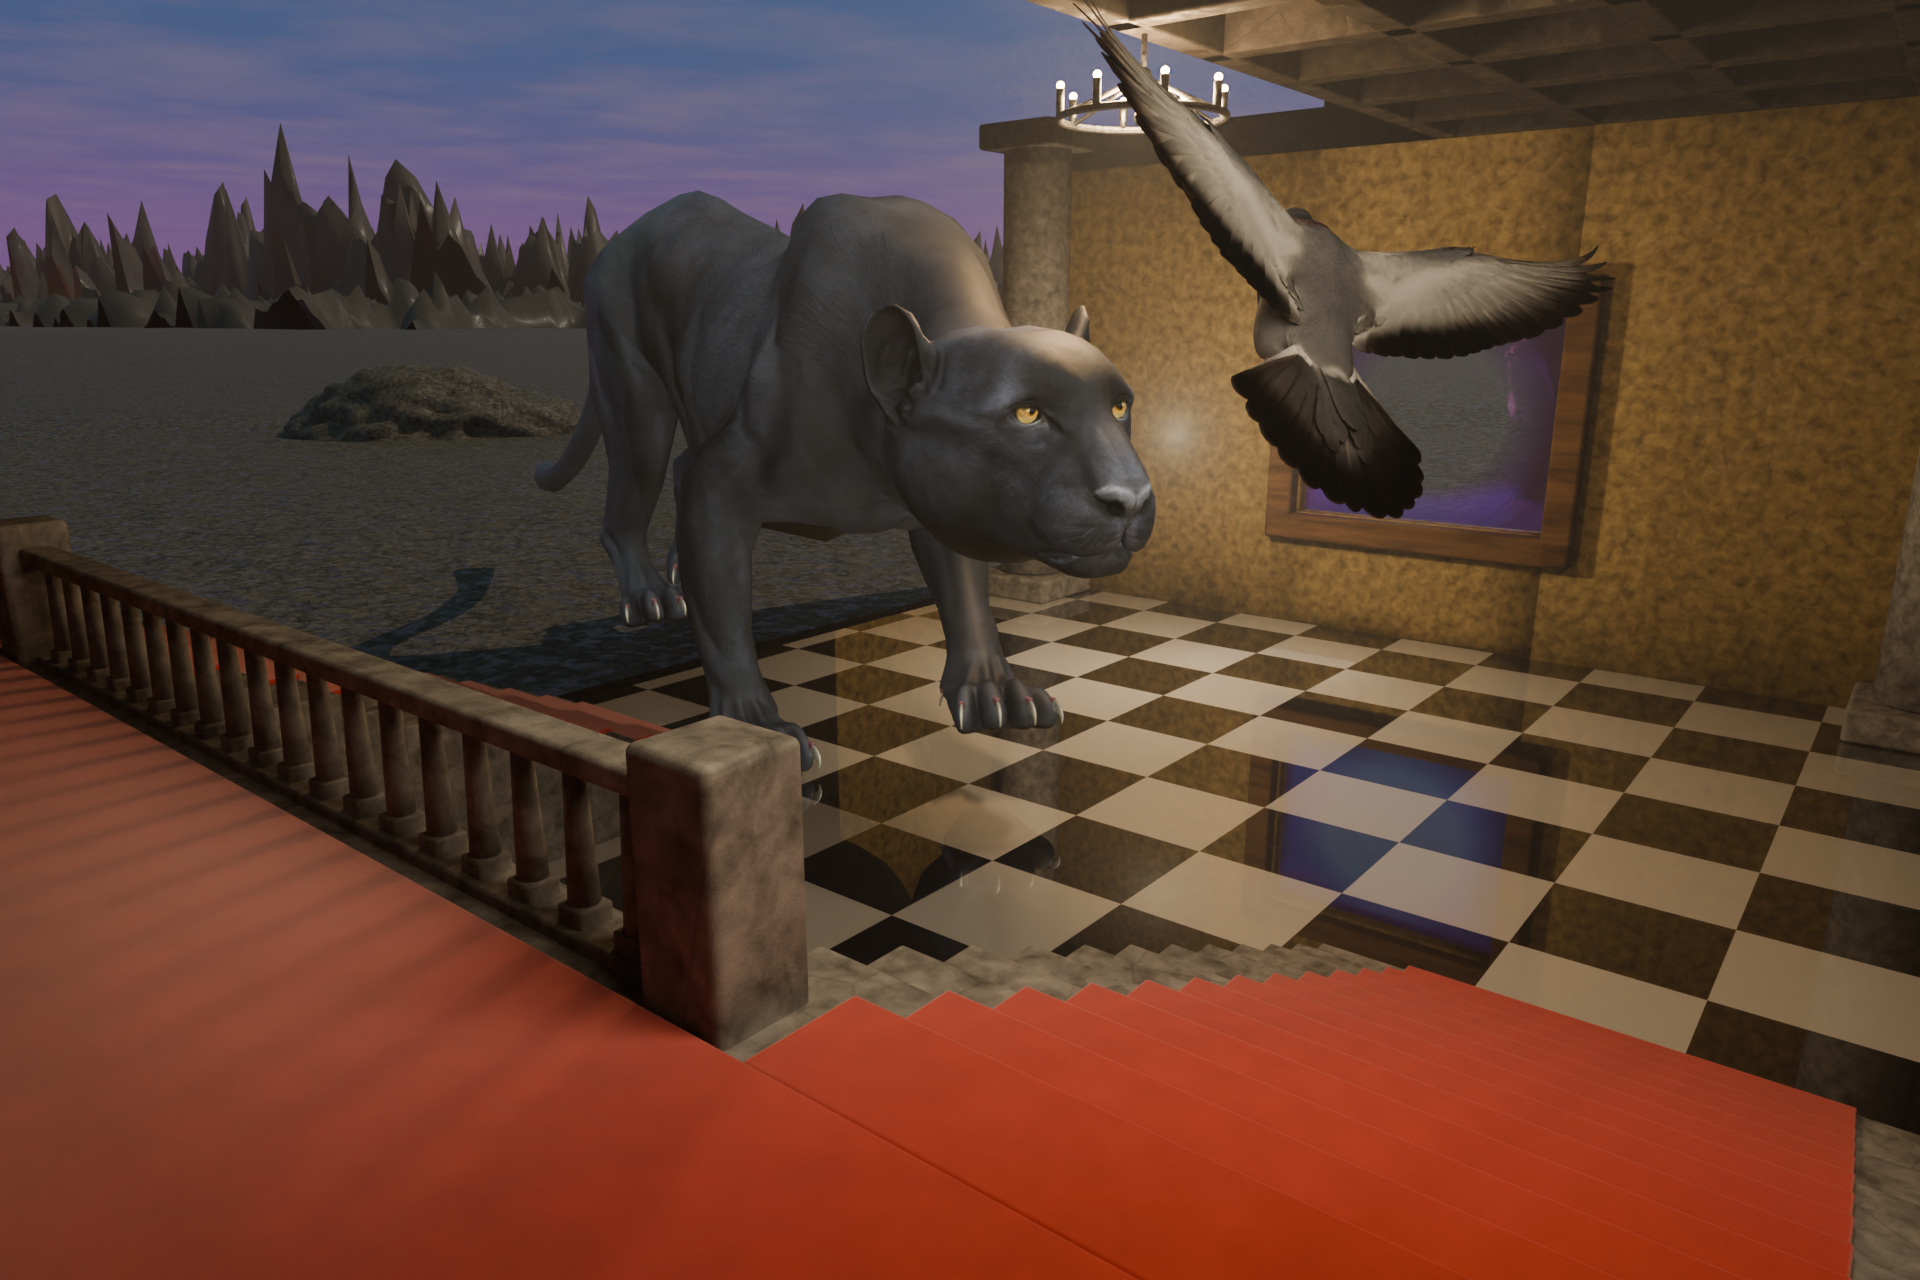
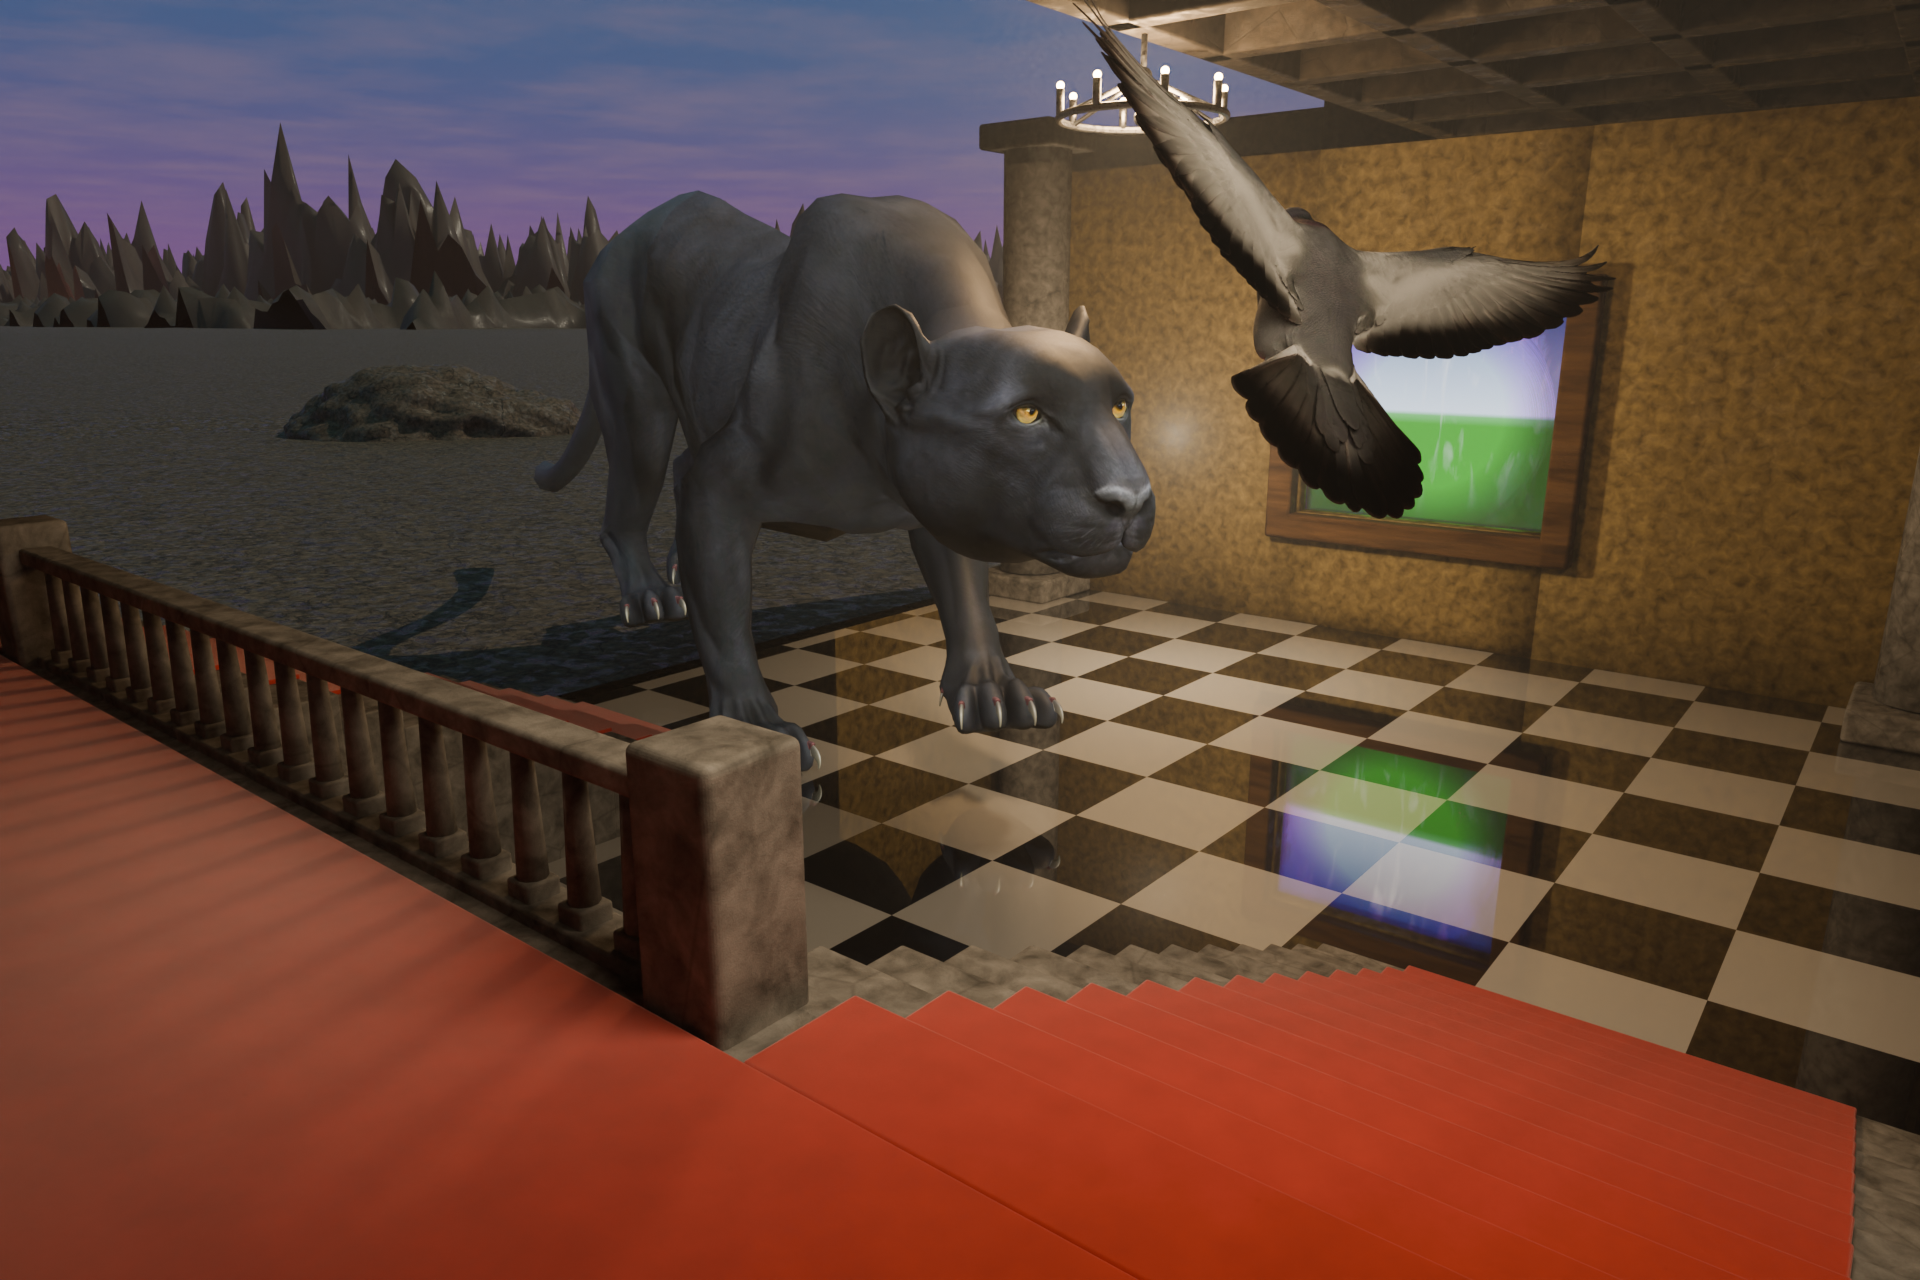
The picture keeps its green hills, by being a picture again
Two goes at real geometry failed the same way, and the failure is worth
keeping written down because it is a property of the room rather than a bug.

The frame looks +Y and the missing wall looks -X and +Y, so from any one lens
they are working the same half of the world. That means one world sky cannot
be blue through the frame and violet through the wall. Worse, the flats put a
plain at z 0: the frame's sight line used to fall for three hundred metres
before it met a hillside sitting at -17.5, and now it meets dirt at ninety.
Ray-swept with the hill raised onto the plain and a blue sky panel set in the
gap between the two view cones -- and the cones really are disjoint, the
picture spans x -138..-71 at 340 m from the stair lens where the wall has
already gone past -154 -- the panel took no rays at all. The plain had buried
both before either could be seen.

The ways out were a hole in the plain, which a fractal grid does not have, or
standing the hall on a mesa with the flats dropping away below, which is a
different picture from the one asked for. So the opening is filled again with
the emissive view this file has always had a helper for: green below, blue
above, cloud, horizon at half height.

Its brightness was swept and it is a decision about the picture alone -- the
room floor did not move two points between strength 3.4 and 0.6, because the
hall is sealed and lit by its own lamps. 1.2 keeps the green readable at
[…]

Changed region(s): [[0.6562, 0.25, 0.8125, 0.4375], [0.6562, 0.5625, 0.7812, 0.75]]

diff --git a/art/blender/scenes.py b/art/blender/scenes.py
@@ -2298,6 +2298,12 @@ FLATS_SUN = 0.9
 FLATS_CLOUD = 0.20
 FLATS_CLOUD_COLOUR = (0.72, 0.42, 0.46)
 FLATS_HAZE = 0.00004
+#: How bright the painted view burns. Same rule as the sky: bright is white.
+#: Swept 3.4 down to 0.6 -- the hills went 155 luma at saturation 0.19 to 120
+#: at 0.27, and the room floor did not move by two points across the whole
+#: range, so this is a decision about the picture alone and not about the
+#: light in the hall. 1.2 keeps the green readable without bleaching it.
+FLATS_VIEW = 1.2
 
 FLATS_SKY = [(0.00, (0.980, 0.400, 0.255)),
              (0.09, (0.760, 0.255, 0.330)),
@@ -2648,6 +2654,10 @@ def painted_hall(path, mood="noon", view="balcony", cutaway=False,
         # rain. The far rock is darker than the plain it stands behind, so a
         # range arrives as a shape rather than as a brighter patch of the
         # same dirt.
+        turf = dressed("Hillside", block_scale=0.34, wetness=0.22,
+                       mossy=True, seed=53, mortar=0.0, relief=0.45,
+                       specular=0.10, dark=(0.005, 0.078, 0.003, 1.0),
+                       tint=(0.038, 0.480, 0.016, 1.0))
         hardpan = dressed("Hardpan", block_scale=0.30, wetness=0.03,
                           mossy=False, seed=41, mortar=0.42, cracks=1.05,
                           displace=0.024, tint=(0.238, 0.170, 0.104, 1.0))
@@ -2699,6 +2709,45 @@ def painted_hall(path, mood="noon", view="balcony", cutaway=False,
                 (-70.0, 40.0, 9.0, 0.55), (-150.0, 130.0, 17.0, 0.48),
                 (-270.0, 280.0, 32.0, 0.52), (-46.0, -30.0, 7.0, 0.62))):
             outcrop(x, y, size, sandstone, seed=index * 7 + 3, squat=squat)
+
+        # The picture keeps its green hills and its blue sky, and in this
+        # variant it keeps them by being a picture again.
+        #
+        # It is worth writing down why, because two goes at real geometry
+        # both failed the same way. The frame looks +Y and the missing wall
+        # looks -X and +Y, so from any one lens they are working the same
+        # half of the world. One world sky cannot be blue through the frame
+        # and violet through the wall; and worse, the plain is at z 0, so
+        # the frame's own sight line -- which used to fall for three hundred
+        # metres before it met a hillside at -17.5 -- now meets dirt at
+        # ninety. Ray-swept with a hill raised onto the plain and a sky panel
+        # behind it, the panel took no rays at all: the plain had already
+        # buried both.
+        #
+        # The ways out were a hole in the plain, which a fractal grid does
+        # not have, or standing the building on a mesa with the flats
+        # dropping away below it, which is a different picture from the one
+        # asked for. So: the opening is filled again, with the emissive view
+        # this file has always had a helper for. Green below, blue above,
+        # cloud, and the horizon at half height where it was put. It still
+        # lights the room through the frame, which is the part that mattered
+        # -- a painting lit by the room is a painting, and a painting
+        # lighting the room is a way out of it.
+        look.block((0, DEEP + 0.92, VIEW_Z + VIEW_H / 2),
+                   (VIEW_W - 0.04, 0.4, VIEW_H - 0.04),
+                   look.window_light("Painted view",
+                                     # Darker than a sky "is", because at
+                                     # strength 1.2 the old 0.945 blue came
+                                     # out past 1.0 in radiance and clipped
+                                     # to white -- measured 226 luma at
+                                     # saturation 0.06, which is a cloud.
+                                     # A third of that stays blue.
+                                     sky=(0.028, 0.115, 0.330),
+                                     ground=(0.050, 0.340, 0.028),
+                                     strength=FLATS_VIEW, horizon=0.50,
+                                     base=VIEW_Z, height=VIEW_H,
+                                     cloud=0.55, seed=11.0),
+                   bevel=0.0, name="PaintedView")
     else:
         turf = dressed("Hillside", block_scale=0.34, wetness=0.22,
                        mossy=True, seed=53, mortar=0.0, relief=0.45,
